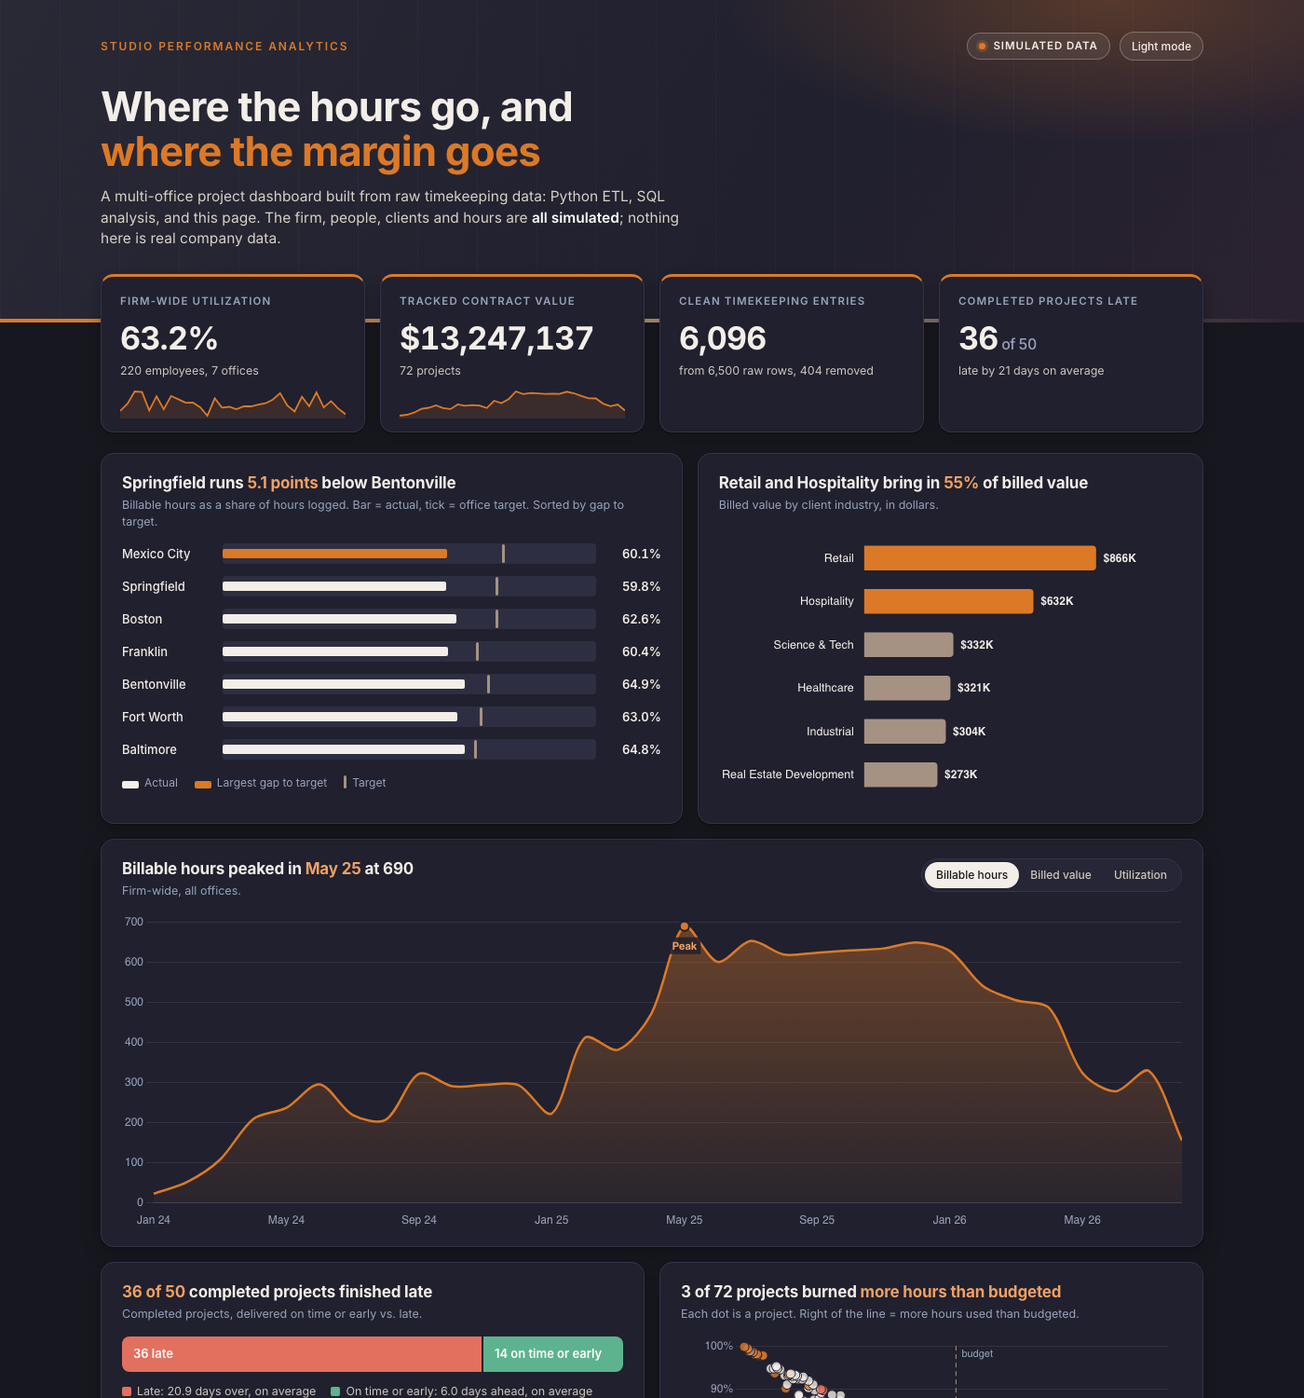
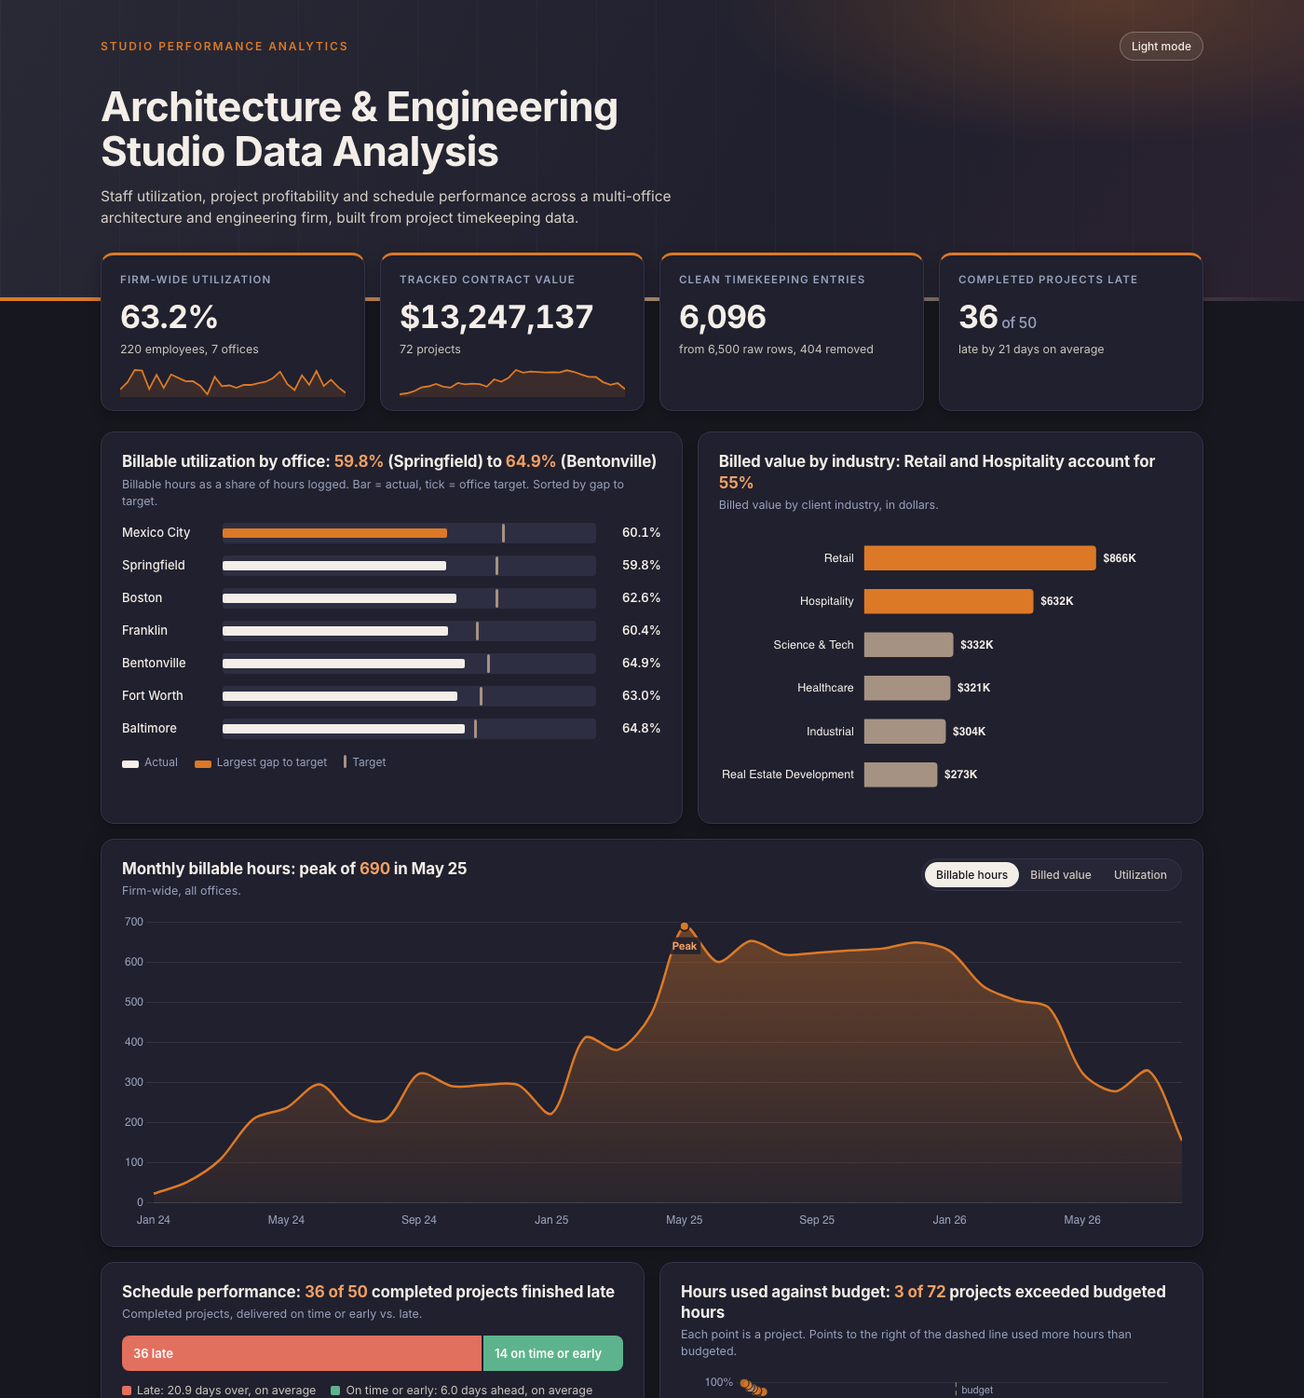
Dashboard: professional title and copy, move data note to footer
- Title "Architecture & Engineering Studio Data Analysis", factual subtitle
- Remove header "Simulated data" pill; add visible Data note in the footer
- Neutral, descriptive chart titles (still computed from the data)
- README screenshots updated

diff --git a/dashboard/index.html b/dashboard/index.html
@@ -3,8 +3,8 @@
 <head>
 <meta charset="UTF-8">
 <meta name="viewport" content="width=device-width, initial-scale=1.0">
-<title>Studio Performance Analytics</title>
-<meta name="description" content="Interactive BI dashboard on simulated timekeeping data for a multi-office architecture and engineering firm.">
+<title>Architecture &amp; Engineering Studio Data Analysis</title>
+<meta name="description" content="Interactive dashboard on a simulated dataset: staff utilization, project profitability and schedule performance for a multi-office architecture and engineering firm.">
 <link rel="preconnect" href="https://fonts.googleapis.com">
 <link rel="preconnect" href="https://fonts.gstatic.com" crossorigin>
 <link href="https://fonts.googleapis.com/css2?family=Inter:wght@400;500;600;700&display=swap" rel="stylesheet">
@@ -95,7 +95,7 @@
   }
   .icon-btn:hover { background: rgba(243,238,231,.16); }
   .icon-btn:focus-visible, button:focus-visible, input:focus-visible, select:focus-visible, th:focus-visible { outline: 2px solid var(--accent); outline-offset: 2px; }
-  h1 { font-size: clamp(28px, 4.2vw, 44px); line-height: 1.08; letter-spacing: -.02em; font-weight: 700; margin: 0 0 14px; max-width: 18ch; }
+  h1 { font-size: clamp(28px, 4.2vw, 44px); line-height: 1.08; letter-spacing: -.02em; font-weight: 700; margin: 0 0 14px; max-width: 22ch; }
   h1 em { font-style: normal; color: #dc7926; }
   .lede { max-width: 66ch; color: #d9d2c6; font-size: 15.5px; margin: 0; }
   .lede b { color: #fff; font-weight: 600; }
@@ -190,7 +190,9 @@
   .etl-chip span { font-size: 12px; color: var(--muted); }
   .etl-chip.key { border-color: var(--accent); }
 
-  footer { text-align: center; color: var(--muted); font-size: 12.5px; padding: 22px 20px 44px; }
+  footer { max-width: 1240px; margin: 8px auto 0; padding: 8px 28px 48px; }
+  .data-note { background: var(--card); border: 1px solid var(--line); border-left: 4px solid var(--accent); border-radius: 10px; padding: 14px 18px; font-size: 15px; color: var(--ink); }
+  .foot-meta { margin-top: 14px; font-size: 13px; color: var(--ink-2); text-align: center; }
 
   .reveal { opacity: 0; transform: translateY(10px); animation: rise .6s ease forwards; }
   @keyframes rise { to { opacity: 1; transform: none; } }
@@ -222,12 +224,11 @@
     <div class="topbar">
       <div class="eyebrow">Studio Performance Analytics</div>
       <div class="top-actions">
-        <span class="pill-sim">Simulated data</span>
         <button class="icon-btn" id="themeBtn" aria-label="Toggle dark mode">Dark mode</button>
       </div>
     </div>
-    <h1>Where the hours go, and <em>where the margin goes</em></h1>
-    <p class="lede">A multi-office project dashboard built from raw timekeeping data: Python ETL, SQL analysis, and this page. The firm, people, clients and hours are <b>all simulated</b>; nothing here is real company data.</p>
+    <h1>Architecture &amp; Engineering Studio Data Analysis</h1>
+    <p class="lede">Staff utilization, project profitability and schedule performance across a multi-office architecture and engineering firm, built from project timekeeping data.</p>
   </div>
 </header>
 
@@ -236,13 +237,13 @@
 
   <div class="grid-2">
     <div class="panel reveal" style="animation-delay:.05s">
-      <h2 id="utilTitle">Utilization by office</h2>
+      <h2 id="utilTitle">Billable utilization by office, against target</h2>
       <p class="sub">Billable hours as a share of hours logged. Bar = actual, tick = office target. Sorted by gap to target.</p>
       <div class="bullets" id="bullets"></div>
       <div class="legend"><span><i class="l-fill"></i>Actual</span><span><i class="l-low"></i>Largest gap to target</span><span><i class="l-tick"></i>Target</span></div>
     </div>
     <div class="panel reveal" style="animation-delay:.1s">
-      <h2 id="indTitle">Work mix by industry</h2>
+      <h2 id="indTitle">Billed value by industry</h2>
       <p class="sub">Billed value by client industry, in dollars.</p>
       <div class="chart-box"><canvas id="chartIndustry"></canvas></div>
     </div>
@@ -275,8 +276,8 @@
       <div class="seg-legend" id="statusLegend"></div>
     </div>
     <div class="panel reveal">
-      <h2 id="scatterTitle">Budget burn vs. margin</h2>
-      <p class="sub">Each dot is a project. Right of the line = more hours used than budgeted.</p>
+      <h2 id="scatterTitle">Budget hours used against margin</h2>
+      <p class="sub">Each point is a project. Points to the right of the dashed line used more hours than budgeted.</p>
       <div class="chart-box" style="height:340px"><canvas id="chartScatter"></canvas></div>
     </div>
   </div>
@@ -337,7 +338,8 @@
 </main>
 
 <footer>
-  Studio Performance Analytics &middot; a self-directed BI portfolio project &middot; all data is simulated &middot; Python, SQLite, Chart.js
+  <div class="data-note"><b>Data note:</b> all data on this page is simulated for demonstration; no real firm, client or employee data is shown.</div>
+  <div class="foot-meta">Studio Performance Analytics &middot; a self-directed business intelligence portfolio project &middot; Python, SQLite, Chart.js</div>
 </footer>
 
 <script>
@@ -408,11 +410,11 @@ const util = [...DATA.utilization_by_office].sort((a, b) => (a.utilization_rate 
 const hi = [...DATA.utilization_by_office].sort((a, b) => b.utilization_rate - a.utilization_rate)[0];
 const lo = [...DATA.utilization_by_office].sort((a, b) => a.utilization_rate - b.utilization_rate)[0];
 const gapPts = ((hi.utilization_rate - lo.utilization_rate) * 100).toFixed(1);
-document.getElementById("utilTitle").innerHTML = `${esc(lo.city)} runs <span class="hl">${gapPts} points</span> below ${esc(hi.city)}`;
+document.getElementById("utilTitle").innerHTML = `Billable utilization by office: <span class="hl">${fmtPct(lo.utilization_rate)}</span> (${esc(lo.city)}) to <span class="hl">${fmtPct(hi.utilization_rate)}</span> (${esc(hi.city)})`;
 
 const ind = [...DATA.industry_mix].sort((a, b) => b.billed_value - a.billed_value);
 const indTotal = ind.reduce((s, r) => s + r.billed_value, 0);
-document.getElementById("indTitle").innerHTML = `${esc(ind[0].industry_name)} and ${esc(ind[1].industry_name)} bring in <span class="hl">${Math.round((ind[0].billed_value + ind[1].billed_value) / indTotal * 100)}%</span> of billed value`;
+document.getElementById("indTitle").innerHTML = `Billed value by industry: ${esc(ind[0].industry_name)} and ${esc(ind[1].industry_name)} account for <span class="hl">${Math.round((ind[0].billed_value + ind[1].billed_value) / indTotal * 100)}%</span>`;
 
 // bullets
 function drawBullets() {
@@ -462,9 +464,9 @@ const refLinePlugin = {
 };
 let trendMetric = "billable_hours";
 const trendMeta = {
-  billable_hours: {title: () => { const p = trend.reduce((a, b) => b.billable_hours > a.billable_hours ? b : a); return `Billable hours peaked in <span class="hl">${monthLabel(p.month)}</span> at ${fmtNum(p.billable_hours)}`; }, f: v => fmtNum(v), t: v => fmtNum(v) + " hrs"},
-  billed_value:   {title: () => { const p = trend.reduce((a, b) => b.billed_value > a.billed_value ? b : a); return `Billed value peaked in <span class="hl">${monthLabel(p.month)}</span> at ${fmtMoney(p.billed_value)}`; }, f: v => fmtShort(v), t: v => fmtMoney(v)},
-  util:           {title: () => { const p = trend.filter(r => r.total_hours > 200).reduce((a, b) => b.util > a.util ? b : a, trend[0]); return `Utilization hit <span class="hl">${fmtPct(p.util)}</span> in ${monthLabel(p.month)}`; }, f: v => (v*100).toFixed(0) + "%", t: v => fmtPct(v)},
+  billable_hours: {title: () => { const p = trend.reduce((a, b) => b.billable_hours > a.billable_hours ? b : a); return `Monthly billable hours: peak of <span class="hl">${fmtNum(p.billable_hours)}</span> in ${monthLabel(p.month)}`; }, f: v => fmtNum(v), t: v => fmtNum(v) + " hrs"},
+  billed_value:   {title: () => { const p = trend.reduce((a, b) => b.billed_value > a.billed_value ? b : a); return `Monthly billed value: peak of <span class="hl">${fmtMoney(p.billed_value)}</span> in ${monthLabel(p.month)}`; }, f: v => fmtShort(v), t: v => fmtMoney(v)},
+  util:           {title: () => { const p = trend.filter(r => r.total_hours > 200).reduce((a, b) => b.util > a.util ? b : a, trend[0]); return `Monthly billable utilization: high of <span class="hl">${fmtPct(p.util)}</span> in ${monthLabel(p.month)}`; }, f: v => (v*100).toFixed(0) + "%", t: v => fmtPct(v)},
 };
 function drawCharts() {
   Object.values(charts).forEach(c => c.destroy());
@@ -507,7 +509,7 @@ function drawCharts() {
   });
 }
 const over = DATA.projects.filter(p => p.budget_hours > 0 && p.actual_hours > p.budget_hours).length;
-document.getElementById("scatterTitle").innerHTML = `${over} of ${DATA.projects.length} projects burned <span class="hl">more hours than budgeted</span>`;
+document.getElementById("scatterTitle").innerHTML = `Hours used against budget: <span class="hl">${over} of ${DATA.projects.length}</span> projects exceeded budgeted hours`;
 document.querySelectorAll(".seg button").forEach(b => b.addEventListener("click", () => {
   trendMetric = b.dataset.m; document.querySelectorAll(".seg button").forEach(x => x.setAttribute("aria-pressed", x === b ? "true" : "false")); drawCharts();
 }));
@@ -515,12 +517,12 @@ document.querySelectorAll(".seg button").forEach(b => b.addEventListener("click"
 // ---------- schedule + status bars ----------
 function drawBars() {
   const tot = completed || 1, pl = late.project_count / tot * 100;
-  document.getElementById("schedTitle").innerHTML = `<span class="hl">${late.project_count} of ${completed}</span> completed projects finished late`;
+  document.getElementById("schedTitle").innerHTML = `Schedule performance: <span class="hl">${late.project_count} of ${completed}</span> completed projects finished late`;
   document.getElementById("schedBar").innerHTML =
     `<div style="width:${pl}%;background:var(--bad)">${late.project_count} late</div><div style="width:${100-pl}%;background:var(--good)">${ontime.project_count} on time or early</div>`;
   document.getElementById("schedLegend").innerHTML =
     `<span style="--c:var(--bad)">Late: ${fmtNum(late.avg_days_variance,1)} days over, on average</span><span style="--c:var(--good)">On time or early: ${fmtNum(Math.abs(ontime.avg_days_variance),1)} days ${ontime.avg_days_variance <= 0 ? "ahead" : "over"}, on average</span>`;
-  document.getElementById("schedCallout").innerHTML = `<b>Read:</b> schedule slippage is more common than budget overrun in this data (${late.project_count} late vs. ${over} over budget hours).`;
+  document.getElementById("schedCallout").innerHTML = `<b>Observation:</b> schedule slippage is more common than budget overrun in this data (${late.project_count} late vs. ${over} over budget hours).`;
   const order = ["Active", "Complete", "On Hold", "Cancelled"], colors = {Active: "var(--accent)", Complete: "var(--ink)", "On Hold": "var(--taupe)", Cancelled: "var(--bad)"};
   const st = order.map(k => DATA.status_breakdown.find(r => r.status === k)).filter(Boolean), n = st.reduce((s, r) => s + r.project_count, 0) || 1;
   document.getElementById("statusBar").innerHTML = st.map(r => `<div style="width:${r.project_count/n*100}%;background:${colors[r.status]};${r.status==="Complete"?"color:var(--bg)":""}" title="${r.status}: ${r.project_count}">${r.project_count/n > .08 ? r.project_count : ""}</div>`).join("");

diff --git a/dashboard/template.html b/dashboard/template.html
@@ -3,8 +3,8 @@
 <head>
 <meta charset="UTF-8">
 <meta name="viewport" content="width=device-width, initial-scale=1.0">
-<title>Studio Performance Analytics</title>
-<meta name="description" content="Interactive BI dashboard on simulated timekeeping data for a multi-office architecture and engineering firm.">
+<title>Architecture &amp; Engineering Studio Data Analysis</title>
+<meta name="description" content="Interactive dashboard on a simulated dataset: staff utilization, project profitability and schedule performance for a multi-office architecture and engineering firm.">
 <link rel="preconnect" href="https://fonts.googleapis.com">
 <link rel="preconnect" href="https://fonts.gstatic.com" crossorigin>
 <link href="https://fonts.googleapis.com/css2?family=Inter:wght@400;500;600;700&display=swap" rel="stylesheet">
@@ -95,7 +95,7 @@
   }
   .icon-btn:hover { background: rgba(243,238,231,.16); }
   .icon-btn:focus-visible, button:focus-visible, input:focus-visible, select:focus-visible, th:focus-visible { outline: 2px solid var(--accent); outline-offset: 2px; }
-  h1 { font-size: clamp(28px, 4.2vw, 44px); line-height: 1.08; letter-spacing: -.02em; font-weight: 700; margin: 0 0 14px; max-width: 18ch; }
+  h1 { font-size: clamp(28px, 4.2vw, 44px); line-height: 1.08; letter-spacing: -.02em; font-weight: 700; margin: 0 0 14px; max-width: 22ch; }
   h1 em { font-style: normal; color: #dc7926; }
   .lede { max-width: 66ch; color: #d9d2c6; font-size: 15.5px; margin: 0; }
   .lede b { color: #fff; font-weight: 600; }
@@ -190,7 +190,9 @@
   .etl-chip span { font-size: 12px; color: var(--muted); }
   .etl-chip.key { border-color: var(--accent); }
 
-  footer { text-align: center; color: var(--muted); font-size: 12.5px; padding: 22px 20px 44px; }
+  footer { max-width: 1240px; margin: 8px auto 0; padding: 8px 28px 48px; }
+  .data-note { background: var(--card); border: 1px solid var(--line); border-left: 4px solid var(--accent); border-radius: 10px; padding: 14px 18px; font-size: 15px; color: var(--ink); }
+  .foot-meta { margin-top: 14px; font-size: 13px; color: var(--ink-2); text-align: center; }
 
   .reveal { opacity: 0; transform: translateY(10px); animation: rise .6s ease forwards; }
   @keyframes rise { to { opacity: 1; transform: none; } }
@@ -222,12 +224,11 @@
     <div class="topbar">
       <div class="eyebrow">Studio Performance Analytics</div>
       <div class="top-actions">
-        <span class="pill-sim">Simulated data</span>
         <button class="icon-btn" id="themeBtn" aria-label="Toggle dark mode">Dark mode</button>
       </div>
     </div>
-    <h1>Where the hours go, and <em>where the margin goes</em></h1>
-    <p class="lede">A multi-office project dashboard built from raw timekeeping data: Python ETL, SQL analysis, and this page. The firm, people, clients and hours are <b>all simulated</b>; nothing here is real company data.</p>
+    <h1>Architecture &amp; Engineering Studio Data Analysis</h1>
+    <p class="lede">Staff utilization, project profitability and schedule performance across a multi-office architecture and engineering firm, built from project timekeeping data.</p>
   </div>
 </header>
 
@@ -236,13 +237,13 @@
 
   <div class="grid-2">
     <div class="panel reveal" style="animation-delay:.05s">
-      <h2 id="utilTitle">Utilization by office</h2>
+      <h2 id="utilTitle">Billable utilization by office, against target</h2>
       <p class="sub">Billable hours as a share of hours logged. Bar = actual, tick = office target. Sorted by gap to target.</p>
       <div class="bullets" id="bullets"></div>
       <div class="legend"><span><i class="l-fill"></i>Actual</span><span><i class="l-low"></i>Largest gap to target</span><span><i class="l-tick"></i>Target</span></div>
     </div>
     <div class="panel reveal" style="animation-delay:.1s">
-      <h2 id="indTitle">Work mix by industry</h2>
+      <h2 id="indTitle">Billed value by industry</h2>
       <p class="sub">Billed value by client industry, in dollars.</p>
       <div class="chart-box"><canvas id="chartIndustry"></canvas></div>
     </div>
@@ -275,8 +276,8 @@
       <div class="seg-legend" id="statusLegend"></div>
     </div>
     <div class="panel reveal">
-      <h2 id="scatterTitle">Budget burn vs. margin</h2>
-      <p class="sub">Each dot is a project. Right of the line = more hours used than budgeted.</p>
+      <h2 id="scatterTitle">Budget hours used against margin</h2>
+      <p class="sub">Each point is a project. Points to the right of the dashed line used more hours than budgeted.</p>
       <div class="chart-box" style="height:340px"><canvas id="chartScatter"></canvas></div>
     </div>
   </div>
@@ -337,7 +338,8 @@
 </main>
 
 <footer>
-  Studio Performance Analytics &middot; a self-directed BI portfolio project &middot; all data is simulated &middot; Python, SQLite, Chart.js
+  <div class="data-note"><b>Data note:</b> all data on this page is simulated for demonstration; no real firm, client or employee data is shown.</div>
+  <div class="foot-meta">Studio Performance Analytics &middot; a self-directed business intelligence portfolio project &middot; Python, SQLite, Chart.js</div>
 </footer>
 
 <script>
@@ -408,11 +410,11 @@ const util = [...DATA.utilization_by_office].sort((a, b) => (a.utilization_rate 
 const hi = [...DATA.utilization_by_office].sort((a, b) => b.utilization_rate - a.utilization_rate)[0];
 const lo = [...DATA.utilization_by_office].sort((a, b) => a.utilization_rate - b.utilization_rate)[0];
 const gapPts = ((hi.utilization_rate - lo.utilization_rate) * 100).toFixed(1);
-document.getElementById("utilTitle").innerHTML = `${esc(lo.city)} runs <span class="hl">${gapPts} points</span> below ${esc(hi.city)}`;
+document.getElementById("utilTitle").innerHTML = `Billable utilization by office: <span class="hl">${fmtPct(lo.utilization_rate)}</span> (${esc(lo.city)}) to <span class="hl">${fmtPct(hi.utilization_rate)}</span> (${esc(hi.city)})`;
 
 const ind = [...DATA.industry_mix].sort((a, b) => b.billed_value - a.billed_value);
 const indTotal = ind.reduce((s, r) => s + r.billed_value, 0);
-document.getElementById("indTitle").innerHTML = `${esc(ind[0].industry_name)} and ${esc(ind[1].industry_name)} bring in <span class="hl">${Math.round((ind[0].billed_value + ind[1].billed_value) / indTotal * 100)}%</span> of billed value`;
+document.getElementById("indTitle").innerHTML = `Billed value by industry: ${esc(ind[0].industry_name)} and ${esc(ind[1].industry_name)} account for <span class="hl">${Math.round((ind[0].billed_value + ind[1].billed_value) / indTotal * 100)}%</span>`;
 
 // bullets
 function drawBullets() {
@@ -462,9 +464,9 @@ const refLinePlugin = {
 };
 let trendMetric = "billable_hours";
 const trendMeta = {
-  billable_hours: {title: () => { const p = trend.reduce((a, b) => b.billable_hours > a.billable_hours ? b : a); return `Billable hours peaked in <span class="hl">${monthLabel(p.month)}</span> at ${fmtNum(p.billable_hours)}`; }, f: v => fmtNum(v), t: v => fmtNum(v) + " hrs"},
-  billed_value:   {title: () => { const p = trend.reduce((a, b) => b.billed_value > a.billed_value ? b : a); return `Billed value peaked in <span class="hl">${monthLabel(p.month)}</span> at ${fmtMoney(p.billed_value)}`; }, f: v => fmtShort(v), t: v => fmtMoney(v)},
-  util:           {title: () => { const p = trend.filter(r => r.total_hours > 200).reduce((a, b) => b.util > a.util ? b : a, trend[0]); return `Utilization hit <span class="hl">${fmtPct(p.util)}</span> in ${monthLabel(p.month)}`; }, f: v => (v*100).toFixed(0) + "%", t: v => fmtPct(v)},
+  billable_hours: {title: () => { const p = trend.reduce((a, b) => b.billable_hours > a.billable_hours ? b : a); return `Monthly billable hours: peak of <span class="hl">${fmtNum(p.billable_hours)}</span> in ${monthLabel(p.month)}`; }, f: v => fmtNum(v), t: v => fmtNum(v) + " hrs"},
+  billed_value:   {title: () => { const p = trend.reduce((a, b) => b.billed_value > a.billed_value ? b : a); return `Monthly billed value: peak of <span class="hl">${fmtMoney(p.billed_value)}</span> in ${monthLabel(p.month)}`; }, f: v => fmtShort(v), t: v => fmtMoney(v)},
+  util:           {title: () => { const p = trend.filter(r => r.total_hours > 200).reduce((a, b) => b.util > a.util ? b : a, trend[0]); return `Monthly billable utilization: high of <span class="hl">${fmtPct(p.util)}</span> in ${monthLabel(p.month)}`; }, f: v => (v*100).toFixed(0) + "%", t: v => fmtPct(v)},
 };
 function drawCharts() {
   Object.values(charts).forEach(c => c.destroy());
@@ -507,7 +509,7 @@ function drawCharts() {
   });
 }
 const over = DATA.projects.filter(p => p.budget_hours > 0 && p.actual_hours > p.budget_hours).length;
-document.getElementById("scatterTitle").innerHTML = `${over} of ${DATA.projects.length} projects burned <span class="hl">more hours than budgeted</span>`;
+document.getElementById("scatterTitle").innerHTML = `Hours used against budget: <span class="hl">${over} of ${DATA.projects.length}</span> projects exceeded budgeted hours`;
 document.querySelectorAll(".seg button").forEach(b => b.addEventListener("click", () => {
   trendMetric = b.dataset.m; document.querySelectorAll(".seg button").forEach(x => x.setAttribute("aria-pressed", x === b ? "true" : "false")); drawCharts();
 }));
@@ -515,12 +517,12 @@ document.querySelectorAll(".seg button").forEach(b => b.addEventListener("click"
 // ---------- schedule + status bars ----------
 function drawBars() {
   const tot = completed || 1, pl = late.project_count / tot * 100;
-  document.getElementById("schedTitle").innerHTML = `<span class="hl">${late.project_count} of ${completed}</span> completed projects finished late`;
+  document.getElementById("schedTitle").innerHTML = `Schedule performance: <span class="hl">${late.project_count} of ${completed}</span> completed projects finished late`;
   document.getElementById("schedBar").innerHTML =
     `<div style="width:${pl}%;background:var(--bad)">${late.project_count} late</div><div style="width:${100-pl}%;background:var(--good)">${ontime.project_count} on time or early</div>`;
   document.getElementById("schedLegend").innerHTML =
     `<span style="--c:var(--bad)">Late: ${fmtNum(late.avg_days_variance,1)} days over, on average</span><span style="--c:var(--good)">On time or early: ${fmtNum(Math.abs(ontime.avg_days_variance),1)} days ${ontime.avg_days_variance <= 0 ? "ahead" : "over"}, on average</span>`;
-  document.getElementById("schedCallout").innerHTML = `<b>Read:</b> schedule slippage is more common than budget overrun in this data (${late.project_count} late vs. ${over} over budget hours).`;
+  document.getElementById("schedCallout").innerHTML = `<b>Observation:</b> schedule slippage is more common than budget overrun in this data (${late.project_count} late vs. ${over} over budget hours).`;
   const order = ["Active", "Complete", "On Hold", "Cancelled"], colors = {Active: "var(--accent)", Complete: "var(--ink)", "On Hold": "var(--taupe)", Cancelled: "var(--bad)"};
   const st = order.map(k => DATA.status_breakdown.find(r => r.status === k)).filter(Boolean), n = st.reduce((s, r) => s + r.project_count, 0) || 1;
   document.getElementById("statusBar").innerHTML = st.map(r => `<div style="width:${r.project_count/n*100}%;background:${colors[r.status]};${r.status==="Complete"?"color:var(--bg)":""}" title="${r.status}: ${r.project_count}">${r.project_count/n > .08 ? r.project_count : ""}</div>`).join("");
